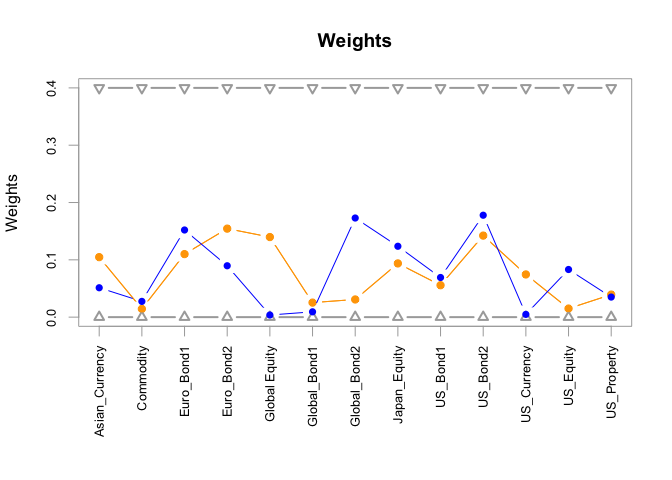
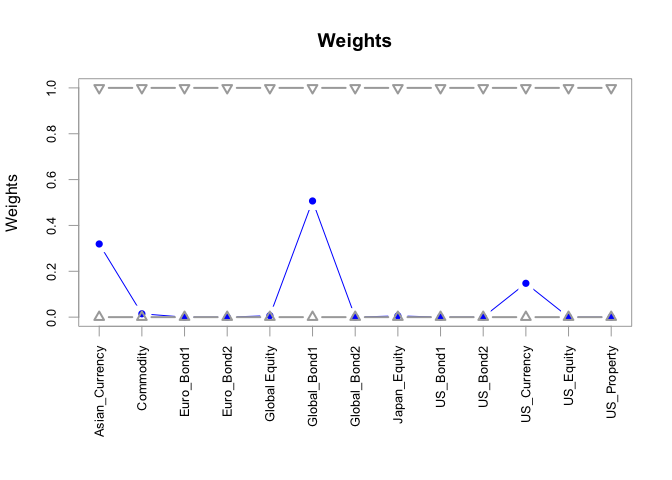
Q6

diff --git a/README.md b/README.md
@@ -165,29 +165,6 @@ graph above that some values were not desirable, For a successful
 correlation matrix to be run and R I need to fill any values that might
 cause problems,
 
-    ## # A tibble: 3,458 × 89
-    ##    date       `ABG SJ Equity` `ACL SJ Equity` `AEG SJ Equity` `AGL SJ Equity`
-    ##    <date>               <dbl>           <dbl>           <dbl>           <dbl>
-    ##  1 2008-01-02       -0.000524        0.0257           0.00784        0.00996 
-    ##  2 2008-01-03       -0.0185         -0.000625         0.00291       -0.0117  
-    ##  3 2008-01-04       -0.0115          0.00438         -0.0183        -0.00240 
-    ##  4 2008-01-07       -0.0171         -0.00347         -0.0221        -0.0272  
-    ##  5 2008-01-08        0.0192          0.0197           0.0175        -0.00555 
-    ##  6 2008-01-09       -0.00987         0.0159          -0.0231        -0.0356  
-    ##  7 2008-01-10       -0.0128         -0.0260          -0.0428        -0.0237  
-    ##  8 2008-01-11       -0.0174         -0.0227          -0.0440         0.00470 
-    ##  9 2008-01-14        0.0281          0.0363           0.00398        0.0157  
-    ## 10 2008-01-15       -0.0144          0.00708         -0.0291        -0.000591
-    ## # … with 3,448 more rows, and 84 more variables: AMS SJ Equity <dbl>,
-    ## #   ANG SJ Equity <dbl>, APN SJ Equity <dbl>, ARI SJ Equity <dbl>,
-    ## #   ASR SJ Equity <dbl>, AXL SJ Equity <dbl>, BAT SJ Equity <dbl>,
-    ## #   BAW SJ Equity <dbl>, BHP SJ Equity <dbl>, BID SJ Equity <dbl>,
-    ## #   BTI SJ Equity <dbl>, BVT SJ Equity <dbl>, CCO SJ Equity <dbl>,
-    ## #   CFR SJ Equity <dbl>, CLS SJ Equity <dbl>, CPI SJ Equity <dbl>,
-    ## #   DSY SJ Equity <dbl>, EXX SJ Equity <dbl>, FFA SJ Equity <dbl>, …
-
-    ## [1] FALSE
-
 The above code is a direct way in which I imputed the returns of
 individual stocks taken from the distribution of all of the constituents
 of the return series. As this is a PCA directed approach it made sense
@@ -2596,7 +2573,7 @@ garchfit2@fit$matcoef %>% xtable()
 ```
 
     ## % latex table generated in R 4.0.4 by xtable 1.8-4 package
-    ## % Sun Dec  5 08:24:06 2021
+    ## % Sun Dec  5 08:54:15 2021
     ## \begin{table}[ht]
     ## \centering
     ## \begin{tabular}{rrrrr}
@@ -2954,20 +2931,34 @@ fmxdat::finplot(gviolion, y.pct = T, y.pct_acc = 1, x.vert = T)
 
 ![](README_files/figure-markdown_github/unnamed-chunk-54-1.png) This is
 extremely useful as it reports on the behaviour of these returns and
-shows how the density of distribution changes with the change in pairs
+shows how the density of distribution changes with the change in pairs.
+Most notably the US 10 year year shows significantly higher degrees of
+dispersion and clearly follows a different distribution process to the
+other three indices.
 
 # Question 6: Portfolio Construction
 
 In this question we construct a global balanced index fund portfolio
-using a mix of traded global indices that we load below. type of
-optimzer tells us by constraints so wont be max mean eg. before the
-optimsations considerations - look at data and clean.
+using a mix of traded global indices that we load below. From the
+question I can already gain a clear understanding of the type of
+optimiser that will be preferred from a subjective perspective. What I
+mean by this is that The constraints are structured in a way that
+suggest a more moderate wealth preserving type portfolio need be
+constructed.As I’ve spent some time trying to build optimisers by hand
+in preparation for this question I’ve come across a helpful package but
+I feel does the best job of allowing for very flexible constraints.For
+this reason I load the data in and open the portfolio analytics package.
+Before integrating it straight in I clean the data as normal.
 
 ``` r
 Q6MAA <- read_rds("data/MAA.rds")
 Q6msci <- read_rds("data/msci.rds") %>%
   filter(Name %in% c("MSCI_ACWI", "MSCI_USA", "MSCI_RE", "MSCI_Jap"))
 ```
+
+For easeability in the constraints section of the optimisation procedure
+I’ve proceeded to rename the indices so that the object orientated
+group-by constraints are easily carried out.
 
 ``` r
 Q6MAAwide <- Q6MAA %>% select(date, Ticker, Price) %>% spread(Ticker, Price)
@@ -2998,10 +2989,14 @@ Q6totalrtn3 <- Q6totalrtn2 %>% select(date, Tickers, dlogret) %>%
     spread(Tickers, dlogret)
 ```
 
-mvo from 1st priciples gets tricky with additional constrsints and vxvr
-wont let you add the group constsints
+I will once more emphasise that the mean variance optimiser as well as
+other packages such as CVXR are quite tricky in terms of flexible
+constraints. Whilst I will give this optimisation procedure various
+objectives the main objective will be a wolf preserving risk adjusted
+return objective.
 
-welath preserving CPI plus2-3
+I then convert the data into a timeseries and load in the packages and
+plugins.
 
 ``` r
 Q6rtn <- Q6totalrtn3 %>% tbl_xts()
@@ -3041,6 +3036,14 @@ library(PortfolioAnalytics)
     ## The following objects are masked from 'package:ROI':
     ## 
     ##     is.constraint, objective
+
+Below I specify the portfolio that will take on the constraint arguments
+there after the specific constraints that I specify are as follows: Full
+investment must take place and long only positions are added. And
+objective is then added to minimise portfolio standard deviation as an
+initial starting point in this optimiser but will be changed later
+on.The optimisation procedure is then initiated and the return on
+investment method is specified.
 
 ``` r
 port_spec <- portfolio.spec(colnames(Q6rtn))
@@ -3085,9 +3088,10 @@ extractWeights(opt)
 chart.Weights(opt)
 ```
 
-![](README_files/figure-markdown_github/unnamed-chunk-57-1.png) Above we
-explored the most simple approach with a simple objective with added
-constraints.
+![](README_files/figure-markdown_github/unnamed-chunk-58-1.png) As
+mentioned we explore the most simple case above and we print out the
+results in terms of weights it now becomes clear why the names were
+changed.
 
 ``` r
 print(port_spec)
@@ -3116,16 +3120,21 @@ print(port_spec)
     ## Enabled objective names
     ##      - StdDev
 
-As mentioned we explore the constraints and acid here.
+V last three constraints are then implemented below into a more complex
+optimiser as follows: A box constraint is implemented when no single
+asset may constitute more than 40% of the portfolio, And following this
+to group constraints are initialised for equity and bond instruments
+where equity cannot collectively constitute more than 60% and bonds
+can’t constitute more than 25%.
 
 ``` r
 port_spec <- add.constraint(portfolio = port_spec, type = "weight_sum", min_sum = 1, max_sum = 1)
 
 port_spec <- add.constraint(portfolio = port_spec, type = "box", min = 0, max = 0.4)
 
-port_spec <- add.constraint(portfolio = port_spec, type = "group", groups = list(c(4, 5, 7, 8, 10, 11)), group_min = 0, group_max = 0.25)
+port_spec <- add.constraint(portfolio = port_spec, type = "group", groups = list(c(3, 4, 6, 7, 9, 10)), group_min = 0, group_max = 0.25)
 
-port_spec <- add.constraint(portfolio = port_spec, type = "group", groups = list(c(6, 9, 13)), group_min = 0, group_max = 0.6)
+port_spec <- add.constraint(portfolio = port_spec, type = "group", groups = list(c(5, 8, 12)), group_min = 0, group_max = 0.6)
 
 print(port_spec)
 ```
@@ -3157,10 +3166,12 @@ print(port_spec)
     ## Enabled objective names
     ##      - StdDev
 
+Following this the objectives and constraints are once again specified.
+
 ``` r
 port_spec <- add.objective(portfolio = port_spec, type = "return", name = "mean")
 
-# Add a risk objective to minimize portfolio standard deviation
+# Added a risk objective to minimize portfolio standard deviation
 port_spec <- add.objective(portfolio = port_spec, type = "risk", name = "StdDev")
 
 # Add a risk budget objective
@@ -3198,6 +3209,9 @@ print(port_spec)
     ##      - mean 
     ##      - StdDev 
     ##      - StdDev
+
+With the risk budget and the minimised portfolio standard deviation
+objective added we now run a single parent optimisation first.
 
 ``` r
 rp <- random_portfolios(portfolio=port_spec, permutations = 50, rp_method ='simplex')
@@ -3260,7 +3274,10 @@ print(opt)
 chart.Weights(opt)
 ```
 
-![](README_files/figure-markdown_github/unnamed-chunk-61-1.png)
+![](README_files/figure-markdown_github/unnamed-chunk-62-1.png) With
+this initial waiting procedure estimated we now run a periodic
+rebalancing optimisation using the 60 day rolling window and quarterly
+re-balancing.
 
 ``` r
 opt_rebal <- optimize.portfolio.rebalancing(R = Q6rtn, portfolio = port_spec, optimize_method = "random", rp = rp, trace = TRUE, search_size = 1000, rebalance_on = "quarters", training_period = 60, rolling_window = 60)
@@ -3482,6 +3499,9 @@ extractObjectiveMeasures(opt)
     ##         mean 
     ## 0.0001843209
 
+Above we observe that rebalance states are also given within the
+portfolio.
+
 ``` r
 head(extractObjectiveMeasures(opt_rebal))
 ```
@@ -3501,16 +3521,27 @@ extractWeights(opt)
 chart.Weights(opt)
 ```
 
-![](README_files/figure-markdown_github/unnamed-chunk-64-1.png)
+![](README_files/figure-markdown_github/unnamed-chunk-65-1.png) With the
+optimal rebalance procedure undertaken the weights are then given where
+after they are charted as seen above. This is then compared to the
+optimal chart wait to observe the difference between the in and out of
+sample fit.
 
 ``` r
 chart.Weights(opt_rebal)
 ```
 
-![](README_files/figure-markdown_github/unnamed-chunk-65-1.png)
+![](README_files/figure-markdown_github/unnamed-chunk-66-1.png) Lastly
+from our econometric background it is clear that not all assets display
+the same amount of contribution towards risk for this reason we plug the
+risk contribution and observe that global equity US bonds and US
+property display the highest Degrees of risks.
 
 ``` r
 chart.RiskBudget(opt_rebal, match.col = "StdDev", risk.type = "percentage")
 ```
 
-![](README_files/figure-markdown_github/unnamed-chunk-66-1.png)
+![](README_files/figure-markdown_github/unnamed-chunk-67-1.png) We
+conclude with a mention of the initial objective which was a wealthy
+preserving optimiser given the type of constraints for this reason we
+see a very modest return but very well risk adjusted.
